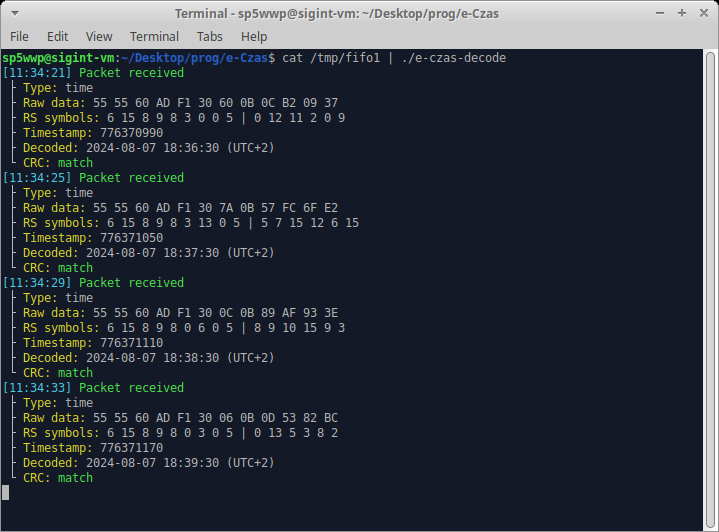
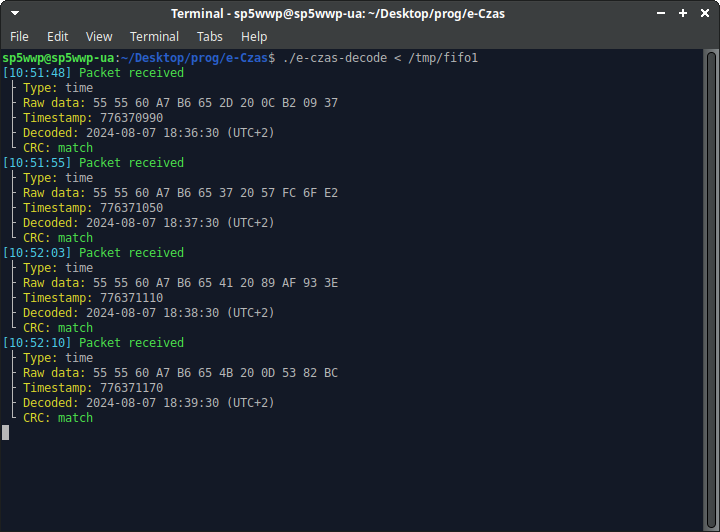
readme updates
- typos + terminal screenshot

Changed region(s): [[0.0, 0.1805, 0.4896, 0.9023], [0.0, 0.0, 1.0, 1.0], [0.0, 0.9023, 0.0306, 0.9624]]

diff --git a/README.md b/README.md
@@ -8,13 +8,13 @@ The detected frame contains 96 bits of data:
 - 16-bit synchronization word (`0x5555`)
 - 8-bit header (`0x60` for the time packet)
 - 3-bit time marker (`0b101`)
-- 30-bit timestamp (e-Czas epoch, elapsed seconds starting Jan 1, 2000)
+- 30-bit timestamp (e-Czas epoch, elapsed 3-second periods starting Jan 1, 2000)
 - 7-bit additional field containing timezone data, leap second announcement, DST switch, etc.
 - 24-bit Reed-Solomon redundancy bits
 - 8-bit CRC value calculated for the raw 5-byte payload, starting at the 4th byte
 
 ## Decoder path
-The decoder first runs a data integrity check against the rececived data using the CRC field. If the received frame passes the check, packet contents are considered valid and the `pcsk_packet_t` struct is filled. In other case, the data is passed to a Reed-Solomon decoder and after a plausible decode (i.e. if a potentially valid codeword is found) a final CRC check is performed. If the CRC is valid, the struct is filled with corrected data, otherwise the packet data is discarded.
+The decoder first runs a data integrity check against the received data using the CRC field. If the received frame passes the check, packet contents are considered valid and the `pcsk_packet_t` struct is filled. In other case, the data is passed to a Reed-Solomon decoder and after a plausible decode (i.e. if a potentially valid codeword is found) a final CRC check is performed. If the CRC is valid, the struct is filled with corrected data, otherwise the packet data is discarded.
 
 Since the PCSK225 signal's packet structure has major design flaws, Reed-Solomon codes are rendered virtually useless. This could have been avoided if the CRC value was covered by the error-correcting code.
 
@@ -30,9 +30,9 @@ The flowgraph uses a named fifo located at `/tmp/fifo1`, create it before execut
 
 After starting the flowgraph, run
 ```bash
-./e-czas-decoder < /tmp/fifo1
+./e-czas-decode < /tmp/fifo1
 ```
 
 ## Decoder preview
-The screenshot below shows Reed-Solomon codewords being printed out. That piece of code has been commented out due to structural changes in the decoder.
+Running the decoder with the supplied GNU Radio flowgraph should give similar result:
 ![CLI decoder](./term.png)
